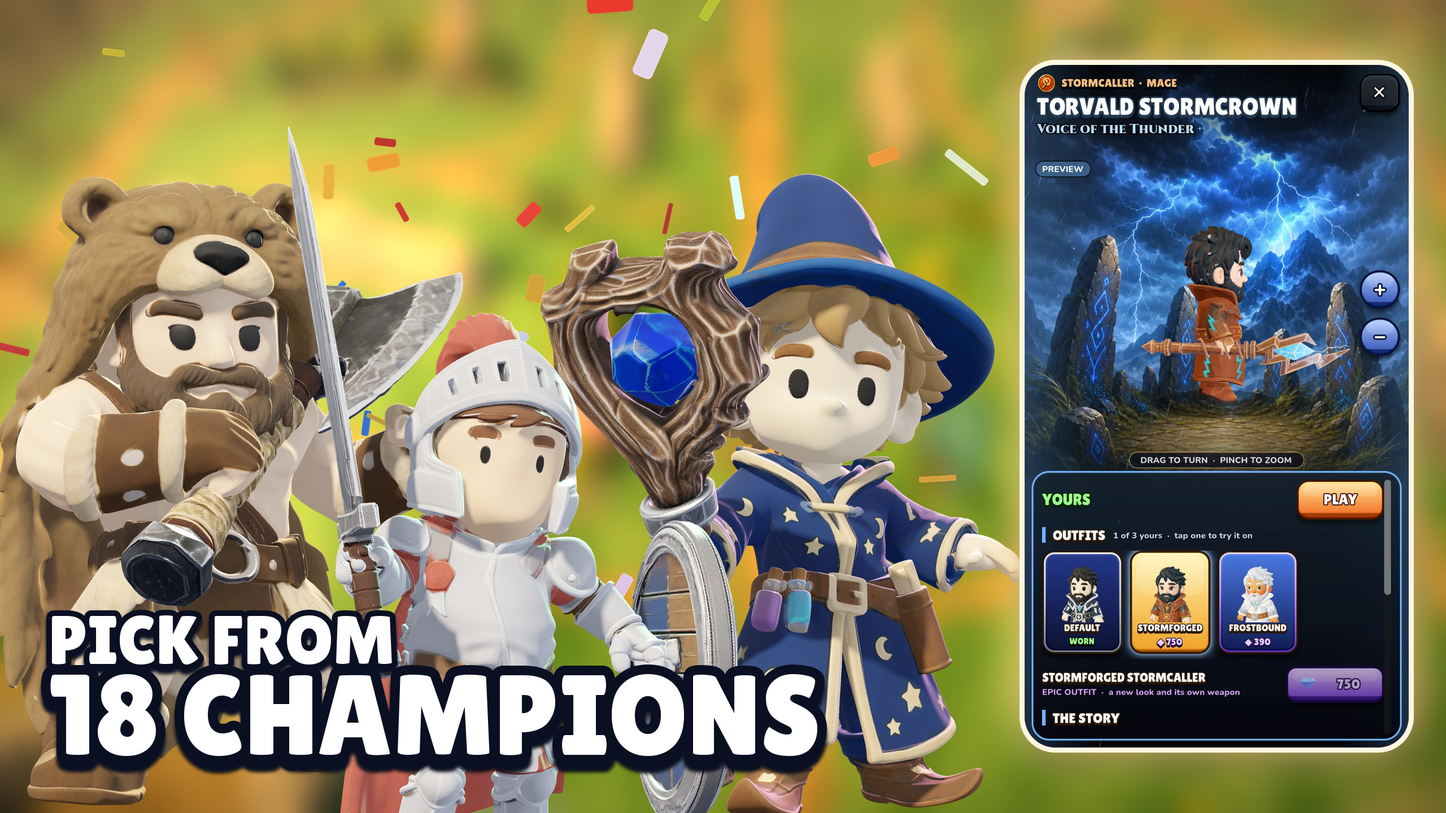
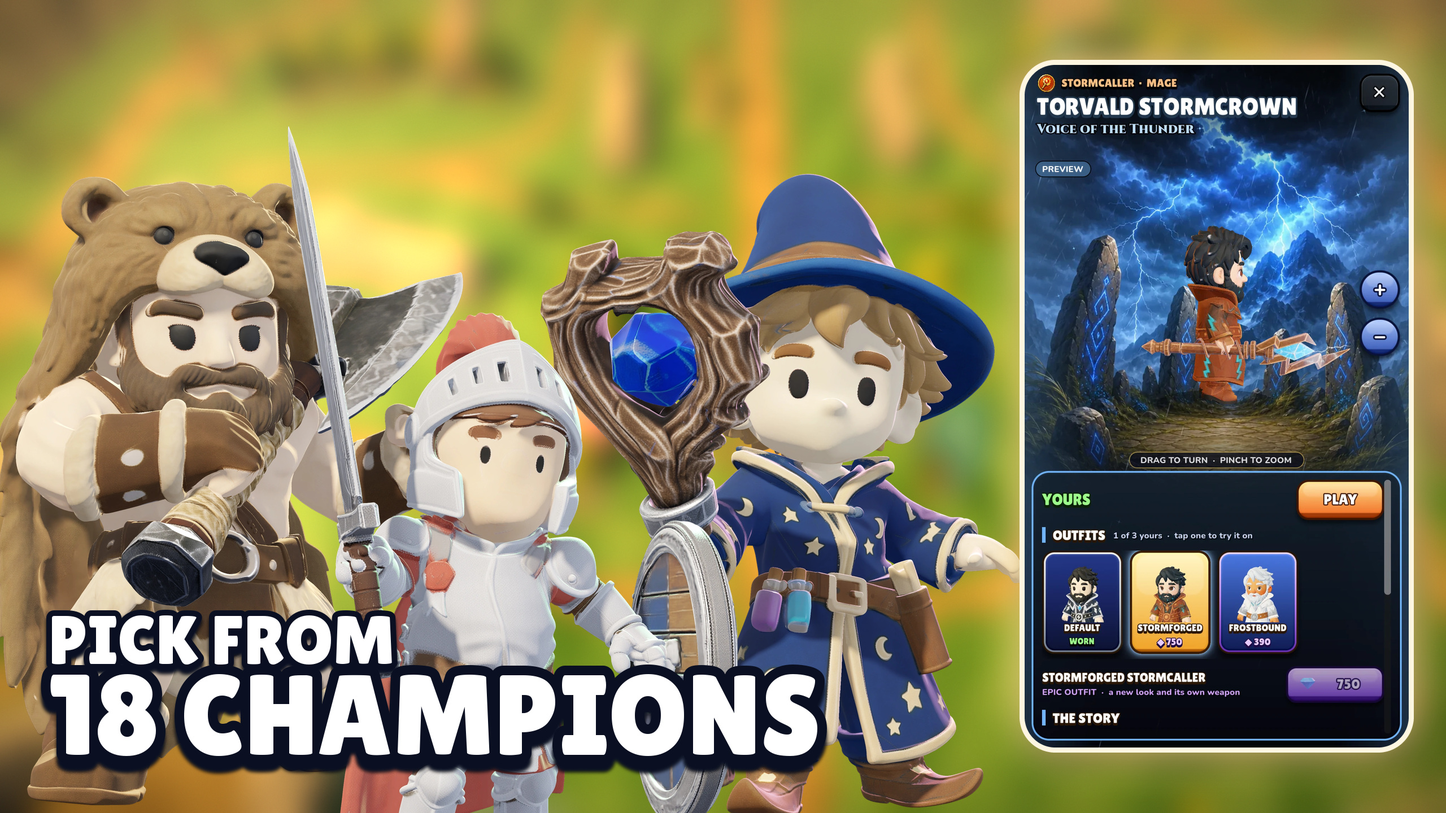
Store screenshots: no confetti (Kevin) -- all three sets rebuilt
Claude-Session: https://claude.ai/code/session_01E7g828t3p5DgnGnspyvbqX

diff --git a/godot/tools/store5_compose.py b/godot/tools/store5_compose.py
@@ -4,7 +4,7 @@ reference"): landscape store screenshots in Clash Royale's manner -- a hero big 
 tools/meshy_hd.py, rendered by tools/render_app_icon.gd), a two-line headline in the corner below him, and on the right
 the real game on a phone-shaped card (the raw renders of tools/store4_match.gd / store4_app.gd, as they are: the HUD
 and screens untouched), over the game's own world blurred (landscape renders of store4_match.gd, CINE=1) and tinted,
-with a light behind the hero and the team colours' confetti. The first is the key art: the heroes together and the
+with a light behind the hero (the team colours' confetti: off, Kevin asked). The first is the key art: the heroes together and the
 title, no phone.
 
 In (--art): store_<hero>_wide.png or .webp (render_app_icon.gd's store_* shots, square, RGBA) for each SHOTS hero;
@@ -35,36 +35,37 @@ LOGO = os.path.join(GODOT, "assets", "ui", "v2")
 TARGETS = {"play": (2560, 1440), "iphone": (2868, 1320), "ipad": (2732, 2048)}
 
 # key, the raw render on the phone ("" none), the backdrop scene, its tint, the glow behind the hero, the confetti,
-# the headline's two lines, and the heroes: [render, x, y, height] -- the render's middle at (x, y), its full square
+# the headline's two lines (Kevin, 0.31.212: "Can you remove the confetti" -- off on every shot; confetti() kept), and
+# the heroes: [render, x, y, height] -- the render's middle at (x, y), its full square
 # `height` tall, all in units of the canvas height (x from the left edge; on wider canvases the hero keeps to the left
 # and the phone to the right). Every claim checked against the game's code (0.31.211):
 #  teamfight: 5v5 online (siege_server) or offline against bots; champions: Champions.ORDER (18); king: the King falls
 #  -> the match is won (moba.gd hit_king); wyrm: the Grave Wyrm (moba.gd camps); outfits: economy.gd OUTFITS (18) +
 #  SKIN_LINES Frostbound (18) = 36; clan: clans (camp, Clan Chest, Clan League); squad: social.gd PARTY_MAX 5.
 SHOTS = [
-    {"key": "keyart", "raw": "", "bg": "feature", "tint": (40, 90, 200), "glow": (120, 190, 255), "confetti": True,
+    {"key": "keyart", "raw": "", "bg": "feature", "tint": (40, 90, 200), "glow": (120, 190, 255), "confetti": False,
      "lines": ("", ""), "logo": True,
      "heroes": [["king", 1.085, 0.47, 1.08], ["dragoon", 1.47, 0.36, 0.95], ["knight", 0.74, 0.55, 1.05],
                 ["barbarian", 0.36, 0.57, 1.1], ["stormcaller", 1.8, 0.56, 1.12]]},
     {"key": "teamfight", "raw": "teamfight", "bg": "feature", "tint": (30, 90, 220), "glow": (130, 200, 255),
-     "confetti": True, "lines": ("TEAM UP FOR", "5V5 HERO BATTLES"),
+     "confetti": False, "lines": ("TEAM UP FOR", "5V5 HERO BATTLES"),
      "heroes": [["stormcaller", 0.56, 0.57, 1.55]]},
     {"key": "champions", "raw": "champion", "bg": "tower", "tint": (230, 150, 40), "glow": (255, 220, 140),
-     "confetti": True, "lines": ("PICK FROM", "18 CHAMPIONS"),
+     "confetti": False, "lines": ("PICK FROM", "18 CHAMPIONS"),
      "heroes": [["barbarian", 0.33, 0.55, 1.28], ["mage", 1.08, 0.53, 1.28], ["knight", 0.67, 0.59, 1.32]]},
-    {"key": "king", "raw": "king", "bg": "king", "tint": (120, 60, 200), "glow": (255, 220, 150), "confetti": True,
+    {"key": "king", "raw": "king", "bg": "king", "tint": (120, 60, 200), "glow": (255, 220, 150), "confetti": False,
      "lines": ("PUSH THE LANES AND", "TOPPLE THEIR KING"),
      "heroes": [["king", 0.55, 0.52, 1.5]]},
     {"key": "wyrm", "raw": "wyrm", "bg": "wyrm", "tint": (20, 160, 140), "glow": (150, 255, 220), "confetti": False,
      "lines": ("SLAY THE", "GRAVE WYRM"),
      "heroes": [["dragoon", 0.66, 0.5, 1.8]]},
-    {"key": "outfit", "raw": "outfit", "bg": "tower", "tint": (200, 60, 120), "glow": (255, 170, 210), "confetti": True,
+    {"key": "outfit", "raw": "outfit", "bg": "tower", "tint": (200, 60, 120), "glow": (255, 170, 210), "confetti": False,
      "lines": ("DRESS UP IN", "36 OUTFITS"),
      "heroes": [["mage", 0.55, 0.5, 1.45]]},
-    {"key": "clan", "raw": "clan", "bg": "king", "tint": (200, 110, 40), "glow": (255, 200, 130), "confetti": True,
+    {"key": "clan", "raw": "clan", "bg": "king", "tint": (200, 110, 40), "glow": (255, 200, 130), "confetti": False,
      "lines": ("BUILD", "YOUR CLAN"),
      "heroes": [["barbarian", 0.55, 0.5, 1.45]]},
-    {"key": "squad", "raw": "home", "bg": "feature", "tint": (40, 140, 90), "glow": (170, 255, 190), "confetti": True,
+    {"key": "squad", "raw": "home", "bg": "feature", "tint": (40, 140, 90), "glow": (170, 255, 190), "confetti": False,
      "lines": ("SQUAD UP", "WITH FRIENDS"),
      "heroes": [["knight", 0.55, 0.52, 1.45]]},
 ]

diff --git a/godot/SIEGE_PROGRESS.md b/godot/SIEGE_PROGRESS.md
@@ -7058,3 +7058,5 @@ Kevin: "Now I want new higher quality app store screenshots. Here is the app sto
   headlines against the game (18 champions, 36 outfits, parties of 5, the King falls -> the match is won). listing.json
   (screenshots, app icon, rendered_from), STORE_LISTING.md and README_FOR_AI.md updated. Apple wants screenshots to show
   the app in use: the key art has no phone -- if review objects, drop it from the App Store set.
+- Kevin: "Can you remove the confetti" -> off on every shot (store5_compose.py SHOTS "confetti": False; confetti() kept);
+  all three sets rebuilt from the kept inputs.
